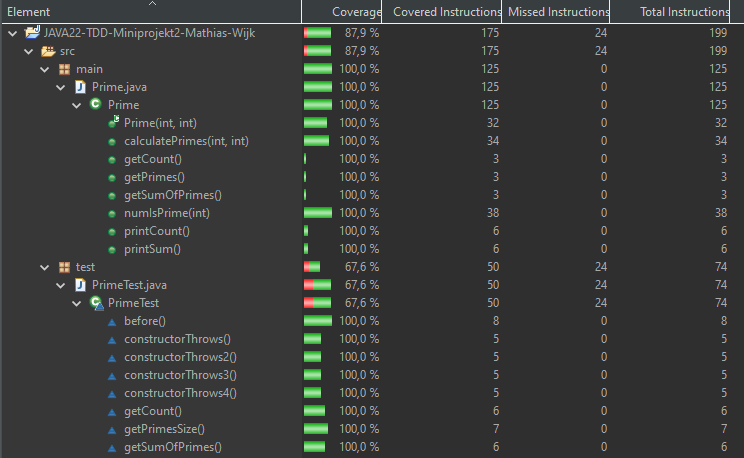
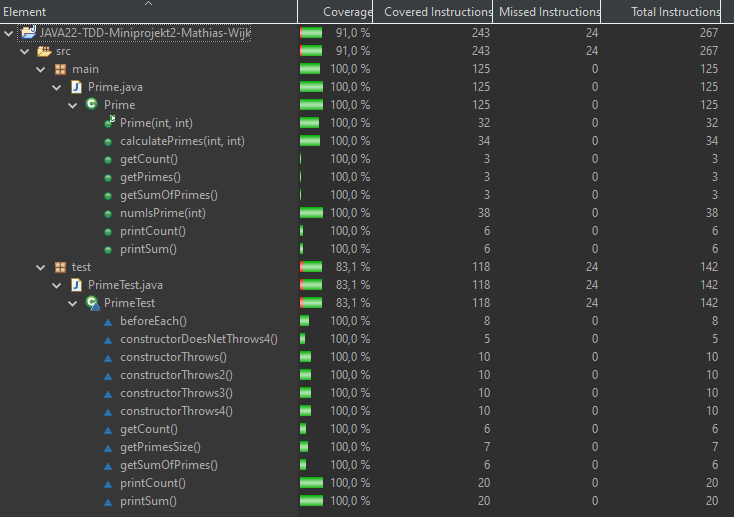
Added some tests

Changed region(s): [[0.0, 0.0, 1.0, 1.0], [0.7793, 0.3362, 0.8392, 0.9782], [0.9591, 0.8865, 0.9891, 0.9782]]

diff --git a/src/test/PrimeTest.java b/src/test/PrimeTest.java
@@ -3,6 +3,9 @@ package test;
 import static org.junit.Assert.assertThrows;
 import static org.junit.jupiter.api.Assertions.*;
 
+import java.io.ByteArrayOutputStream;
+import java.io.PrintStream;
+
 import org.junit.jupiter.api.BeforeEach;
 import org.junit.jupiter.api.DisplayName;
 import org.junit.jupiter.api.Test;
@@ -14,42 +17,52 @@ class PrimeTest {
 	Prime prime;
 
 	@BeforeEach
-	void before() {
+	void beforeEach() {
 		prime = new Prime(0, 1000);
 	}
 
 	@Test
 	@DisplayName("Throws if ints aren't 0 and 1000. 1")
 	void constructorThrows() {
-		assertThrows(IllegalArgumentException.class, () -> new Prime(0, 1001));
+		Exception exception = assertThrows(IllegalArgumentException.class, () -> new Prime(0, 1001));
+		assertEquals("Hoppsan, fel intervall angivet!", exception.getMessage());
 	}
 
 	@Test
 	@DisplayName("Throws if ints aren't 0 and 1000. 2")
 	void constructorThrows2() {
-		assertThrows(IllegalArgumentException.class, () -> new Prime(0, -1));
+		Exception exception = assertThrows(IllegalArgumentException.class, () -> new Prime(0, -1));
+		assertEquals("Hoppsan, fel intervall angivet!", exception.getMessage());
 	}
 
 	@Test
 	@DisplayName("Throws if ints aren't 0 and 1000. 3")
 	void constructorThrows3() {
-		assertThrows(IllegalArgumentException.class, () -> new Prime(-1, 1000));
+		Exception exception = assertThrows(IllegalArgumentException.class, () -> new Prime(-1, 1000));
+		assertEquals("Hoppsan, fel intervall angivet!", exception.getMessage());
 	}
 
 	@Test
 	@DisplayName("Throws if ints aren't 0 and 1000. 4")
 	void constructorThrows4() {
-		assertThrows(IllegalArgumentException.class, () -> new Prime(1, 1000));
+		Exception exception = assertThrows(IllegalArgumentException.class, () -> new Prime(1, 1000));
+		assertEquals("Hoppsan, fel intervall angivet!", exception.getMessage());
 	}
 
 	@Test
-	@DisplayName("Get prime size")
+	@DisplayName("Doesn't throw if ints are 0 and 1000")
+	void constructorDoesNetThrows4() {
+		assertDoesNotThrow(() -> prime);
+	}
+
+	@Test
+	@DisplayName("Test if getPrime size is correct value")
 	void getPrimesSize() {
 		assertEquals(168, prime.getPrimes().size());
 	}
 
 	@Test
-	@DisplayName("Get prime count")
+	@DisplayName("Test if getCount size is correct value")
 	void getCount() {
 		assertEquals(168, prime.getCount());
 	}
@@ -58,6 +71,30 @@ class PrimeTest {
 	@DisplayName("Get sumOfPrimes")
 	void getSumOfPrimes() {
 		assertEquals(76127, prime.getSumOfPrimes());
+	}
+
+	@Test
+	@DisplayName("Test printSum")
+	void printSum() {
+		ByteArrayOutputStream outputStreamCaptor = new ByteArrayOutputStream();
+		System.setOut(new PrintStream(outputStreamCaptor));
+
+		prime.printSum();
+		assertEquals("Sum of all primes between 0 and 1000: 76127", outputStreamCaptor.toString().trim());
+
+		System.setOut(System.out);
+	}
+
+	@Test
+	@DisplayName("Test printCount")
+	void printCount() {
+		ByteArrayOutputStream outputStreamCaptor = new ByteArrayOutputStream();
+		System.setOut(new PrintStream(outputStreamCaptor));
+
+		prime.printCount();
+		assertEquals("Amount of primes between 0 and 1000: 168", outputStreamCaptor.toString().trim());
+
+		System.setOut(System.out);
 	}
 
 }
